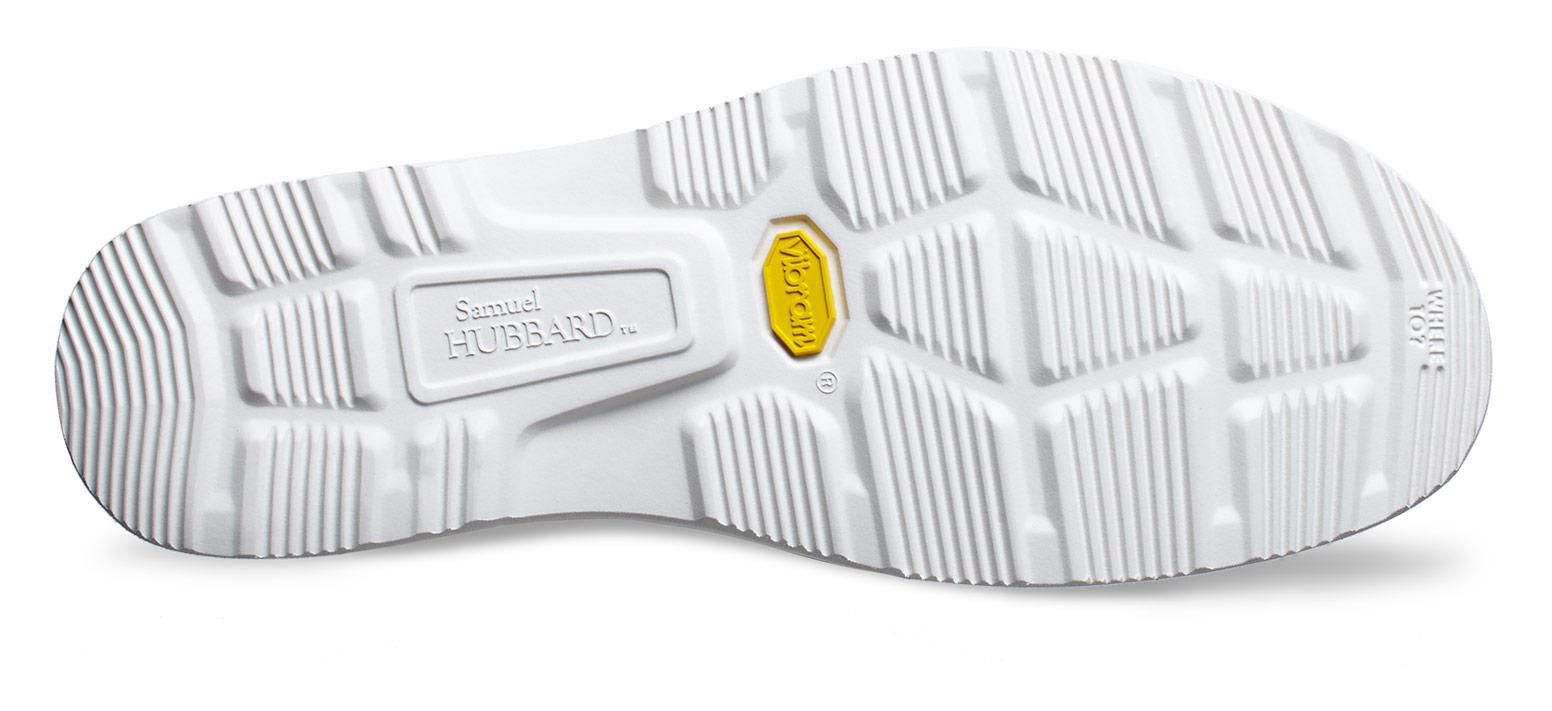
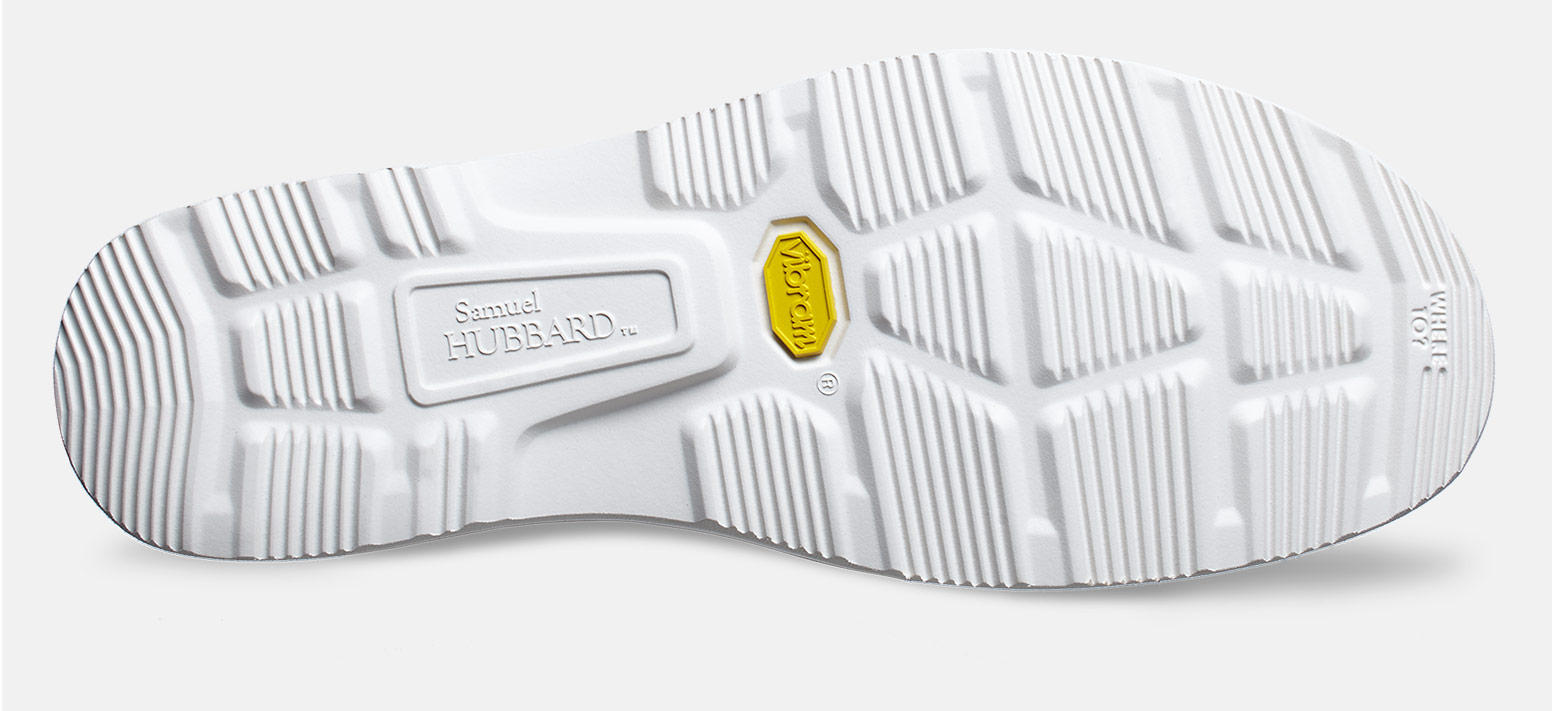
homepage updates

diff --git a/scss/base/_base_style.scss b/scss/base/_base_style.scss
@@ -82,7 +82,7 @@ hr.decorative_break_2 { border: none; border-top: 2px solid rgba(0, 0, 0, 0.1); 
 }
 
 #feature_block_resole {
-    background: #ffffff;
+    background: #f1f1f1;
     .feature_block_image { padding-top: 46%; background: url('/images/feature_boxes/feature_resole.jpg') no-repeat center center; background-size: contain; }
     sup { font-size: 12px; font-family: $font_lato; font-weight: 400; }
 }

diff --git a/css/application.css b/css/application.css
@@ -2850,7 +2850,7 @@ hr.decorative_break_2 {
     background-size: contain; }
 
 #feature_block_resole {
-  background: #ffffff; }
+  background: #f1f1f1; }
   #feature_block_resole .feature_block_image {
     padding-top: 46%;
     background: url("/images/feature_boxes/feature_resole.jpg") no-repeat center center;
